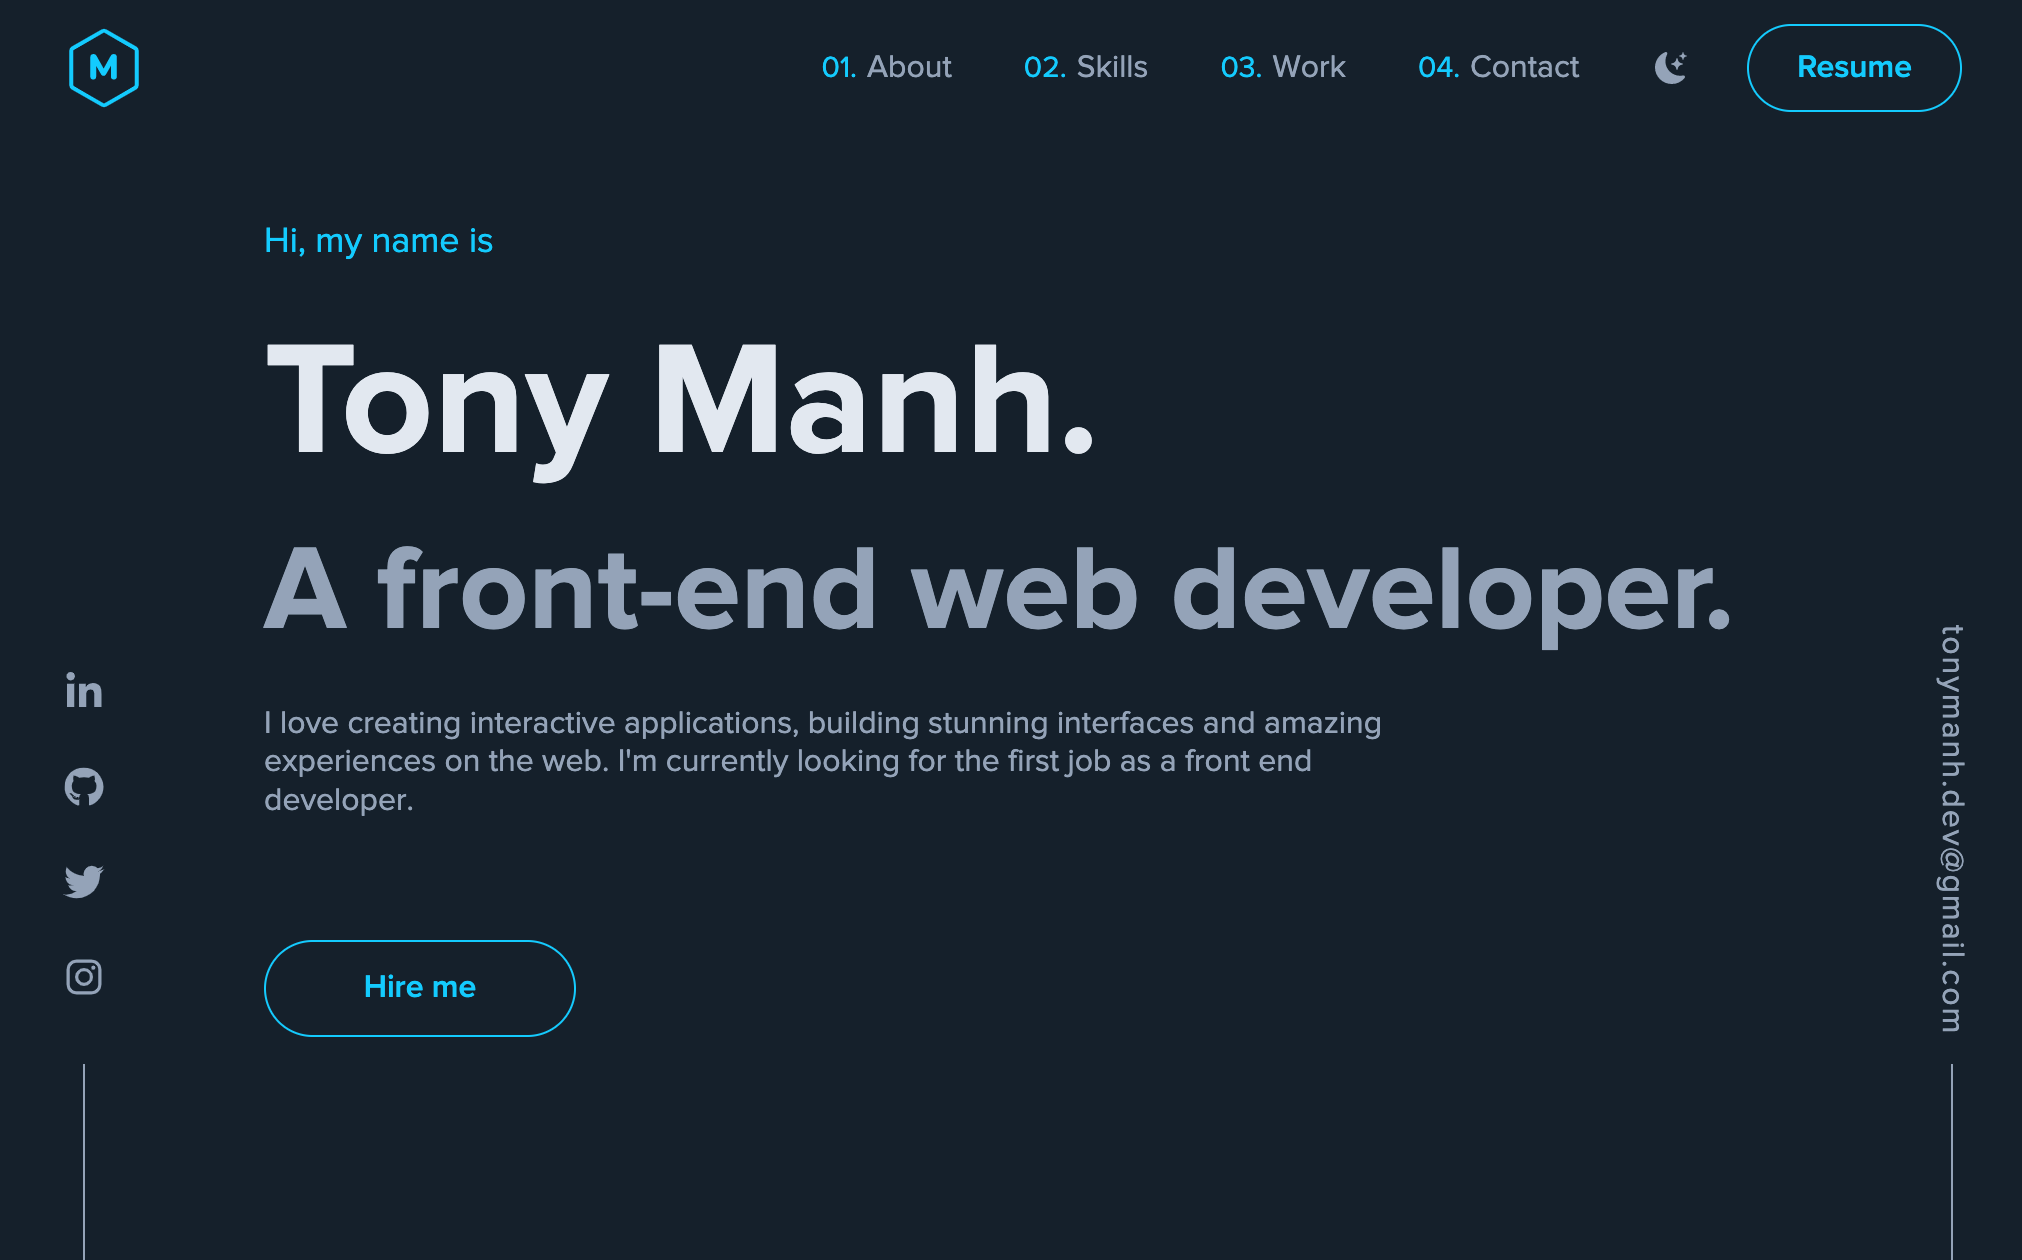
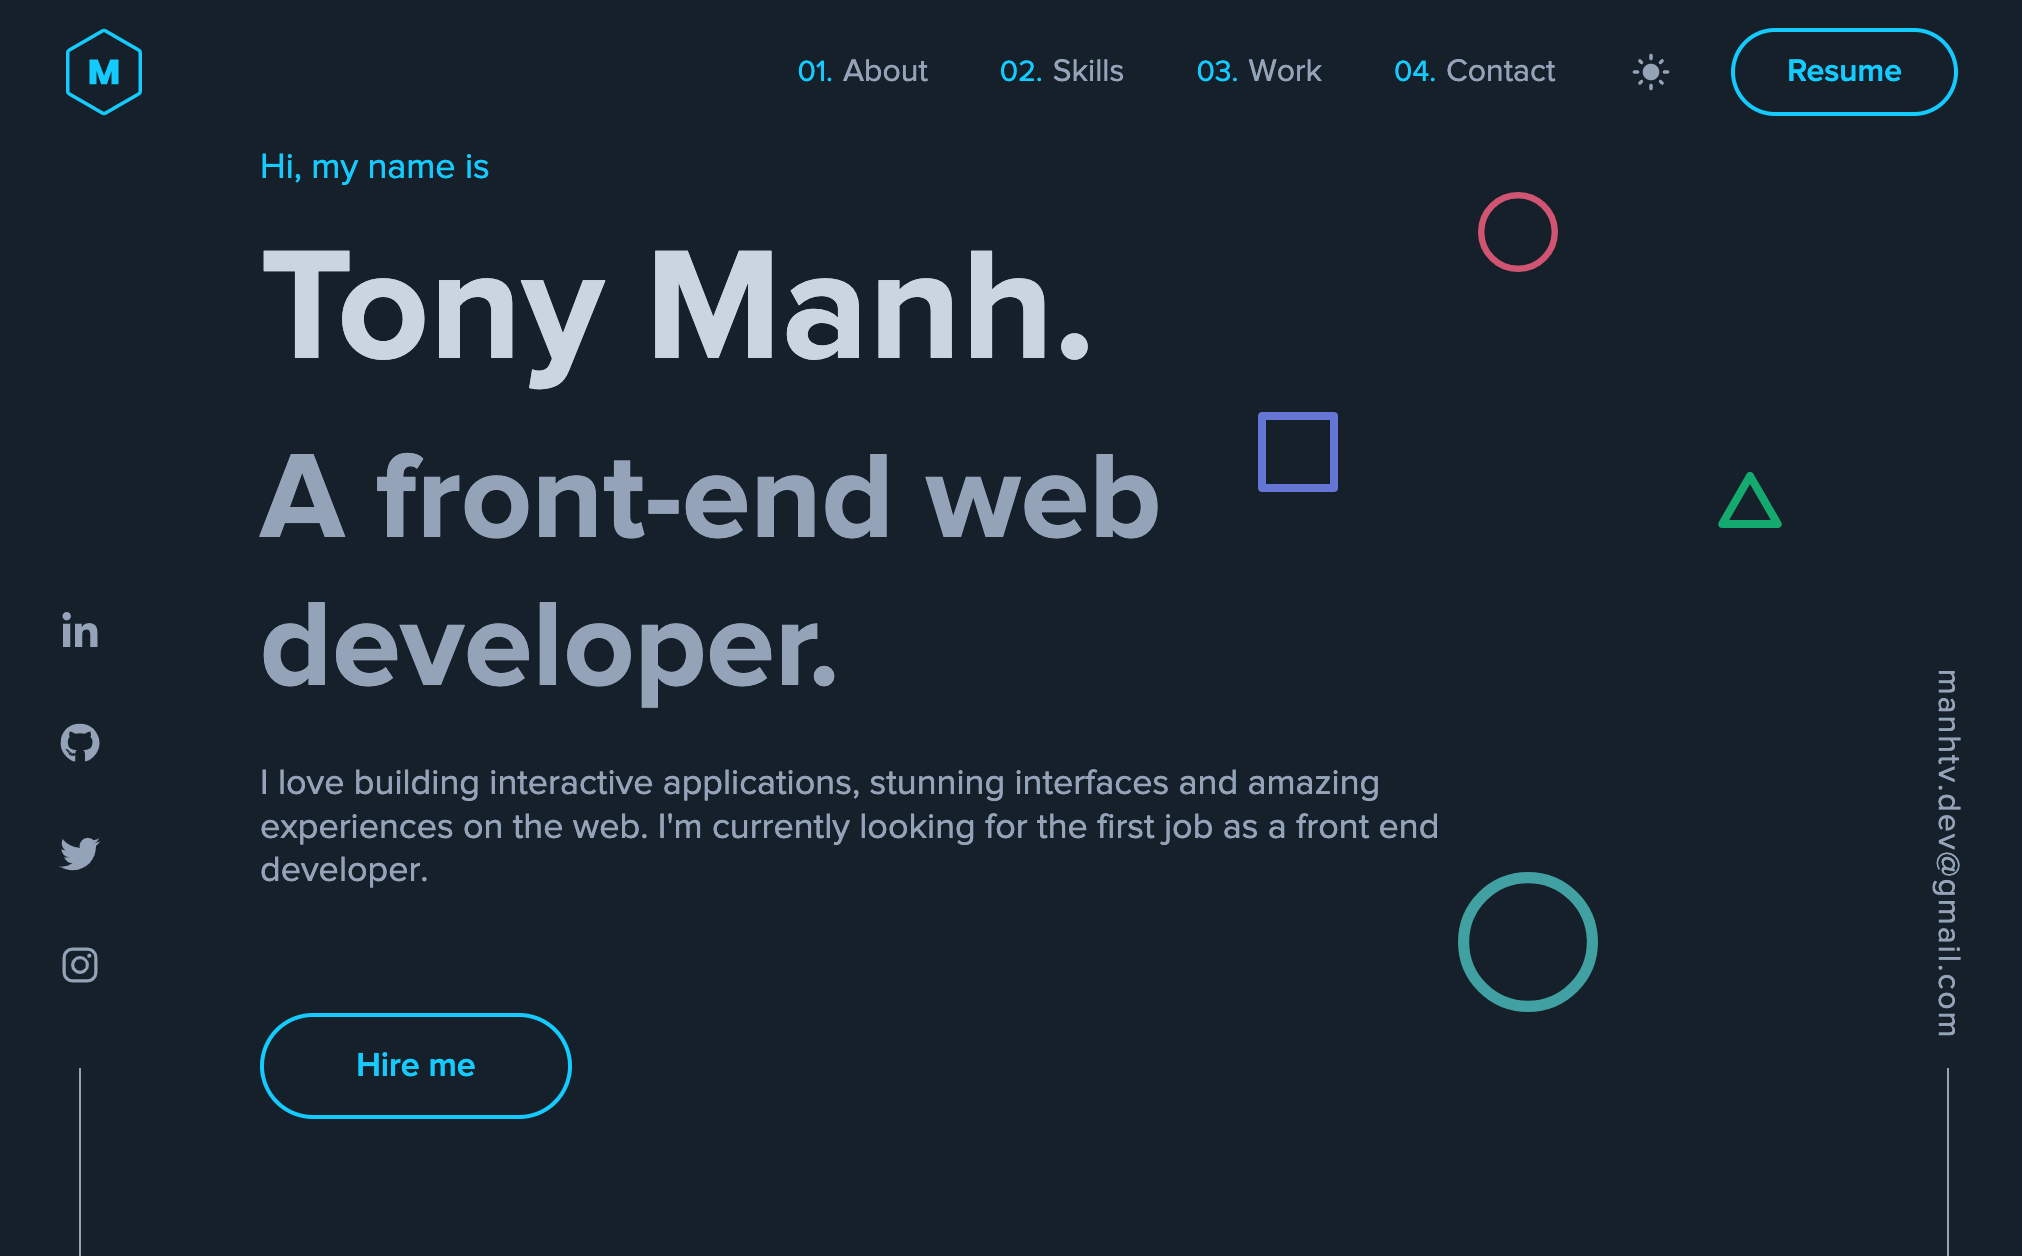
cleaning

diff --git a/src/container/About/About.js b/src/container/About/About.js
@@ -13,11 +13,12 @@ const About = () => {
             <motion.div variants={contentsAnimate} className={cx('contents')}>
                 <div className={cx('info')}>
                     <p>
-                        I started coding in April 2021 and fell in love with it
-                        since. I enjoyed figuring out the logic behind building
-                        applications. But I was more attracted to how to make it
-                        look delightful to users. That's how I started my career
-                        in front end development.
+                        Hello, my name is Tony Manh, a self-taught front end
+                        developer based in Japan. I started coding in April 2021
+                        and fell in love with it since. I enjoyed figuring out
+                        the logic behind building applications, but I was more
+                        attracted to how to make it look delightful to users.
+                        That's how I started my career in front end development.
                     </p>
 
                     <p>
@@ -25,7 +26,7 @@ const About = () => {
                         and experimenting with the new knowledge that I have
                         gained every single day. Currently, I’m focused on
                         looking for a new role as a front end developer and
-                        finding out new technology by building projects.
+                        enhancing knowledge by building projects.
                     </p>
                 </div>
 

diff --git a/src/container/Header/Header.js b/src/container/Header/Header.js
@@ -32,7 +32,6 @@ const item = {
 const Header = () => {
     return (
         <section id="#home" className={cx('wrapper')}>
-            <div className={cx('bg-gradient')}></div>
             <Decoration />
             <motion.div
                 className={cx('heading')}
@@ -60,7 +59,7 @@ const Header = () => {
                     variants={item}
                     transition={{ duration: 0.5, delay: 0.6 }}
                 >
-                    <h1>A front-end web developer.</h1>
+                    <h1>A front end web developer.</h1>
                 </motion.div>
                 <motion.div
                     className={cx('info')}

diff --git a/src/components/Loading/Loading.js b/src/components/Loading/Loading.js
@@ -14,7 +14,7 @@ const draw = {
         transition: {
             pathLength: {
                 delay: 0.3,
-                duration: 1.1,
+                duration: 1.3,
                 bounce: 0,
                 ease: 'linear',
             },
@@ -31,8 +31,8 @@ const contentAnimate = {
         opacity: 1,
         scale: 1,
         transition: {
-            delay: 1.6,
-            duration: 0.4,
+            delay: 1.8,
+            duration: 0.6,
             ease: 'easeInOut',
         },
     },

diff --git a/src/constants/index.js b/src/constants/index.js
@@ -94,9 +94,9 @@ export const frontends = [
     { label: 'HTML 5', img: html },
     { label: 'CSS', img: css },
     { label: 'SASS', img: sass },
-    { label: 'Tailwindcss', img: tailwindcss },
+    { label: 'TailwindCSS', img: tailwindcss },
     { label: 'Bootstrap 5', img: bootstrap },
-    { label: 'Material UI 5', img: mu5 },
+    { label: 'MUI 5', img: mu5 },
     { label: 'JavaScript ES6', img: javascript },
     { label: 'React 18', img: react },
     { label: 'Redux Toolkit', img: redux },

diff --git a/src/App.js b/src/App.js
@@ -2,7 +2,7 @@ import React, { useEffect, useState } from 'react'
 import styles from './App.module.scss'
 import classNames from 'classnames/bind'
 import { AnimatePresence } from 'framer-motion'
-import { Navbar, Social, Email, Loading } from './components/index'
+import { Navbar, Social, Email, Loading, Decoration } from './components/index'
 import { About, Footer, Header, Skills, Contact, Work } from './container/index'
 
 const cx = classNames.bind(styles)

diff --git a/src/container/About/About.module.scss b/src/container/About/About.module.scss
@@ -42,13 +42,7 @@
             z-index: 3;
             top: 0;
             left: 0;
-            background-color: rgba(13, 165, 233, 0.3);
-            // background: linear-gradient(
-            //     180deg,
-            //     rgba(10, 207, 254, 0.3) 0%,
-            //     rgba(73, 90, 255, 0.5) 100%
-            // );
-            // mix-blend-mode: screen;
+            background-color: var(--bg-image);
         }
 
         .framer:hover::before {

diff --git a/src/components/GlobalStyles/GlobalStyles.scss b/src/components/GlobalStyles/GlobalStyles.scss
@@ -41,6 +41,7 @@
     --bg-secondary: #273340;
     --bg-sidebar: #001e3c;
     --bg-blur: rgba(21, 32, 43, 0.9);
+    --bg-image: rgba(13, 165, 233, 0.2);
 
     --scrollbar-thumb: rgba(255, 255, 255, 0.05);
 
@@ -67,6 +68,7 @@
     --bg-secondary: #f3f4f6;
     --bg-sidebar: #ffff;
     --bg-blur: rgba(255, 255, 255, 0.86);
+    --bg-image: rgba(13, 165, 233, 0.02);
 
     --scrollbar-thumb: rgba(0, 0, 0, 0.1);
 

diff --git a/src/container/Footer/Footer.js b/src/container/Footer/Footer.js
@@ -16,7 +16,7 @@ const Footer = () => {
                 duration: 1,
                 delay: 0.3,
             }}
-            viewport={{ once: false }}
+            viewport={{ once: true }}
             className={cx('wrapper')}
         >
             <Social horizontal />

diff --git a/src/components/Decoration/Decoration.module.scss b/src/components/Decoration/Decoration.module.scss
@@ -7,6 +7,7 @@
     position: absolute;
     transition: all 1s 'easeOut';
     opacity: 0.8;
+    // z-index: -99;
 
     @media screen and (max-width: 1024px) {
         display: none;

diff --git a/src/components/Navbar/Navbar.module.scss b/src/components/Navbar/Navbar.module.scss
@@ -33,6 +33,8 @@
     display: flex;
     align-items: center;
     cursor: pointer;
+    width: 4.4rem;
+    height: 4.4rem;
 
     svg {
         color: var(--primary-color);

diff --git a/src/container/Work/Work.module.scss b/src/container/Work/Work.module.scss
@@ -14,7 +14,7 @@
     height: 100%;
 }
 
-.item-right {
+.item-left {
     grid-auto-flow: column;
     .hero-img {
         grid-column-end: -1;
